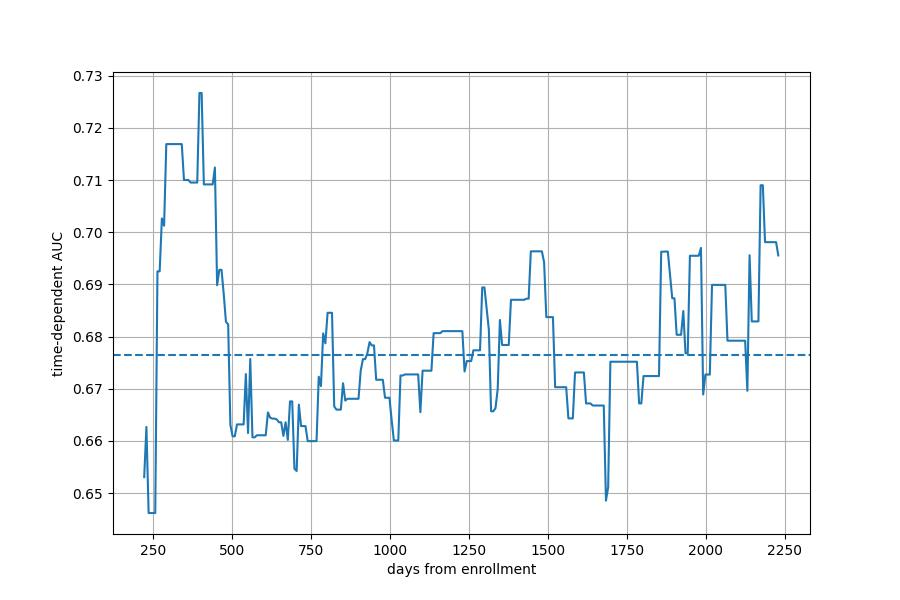
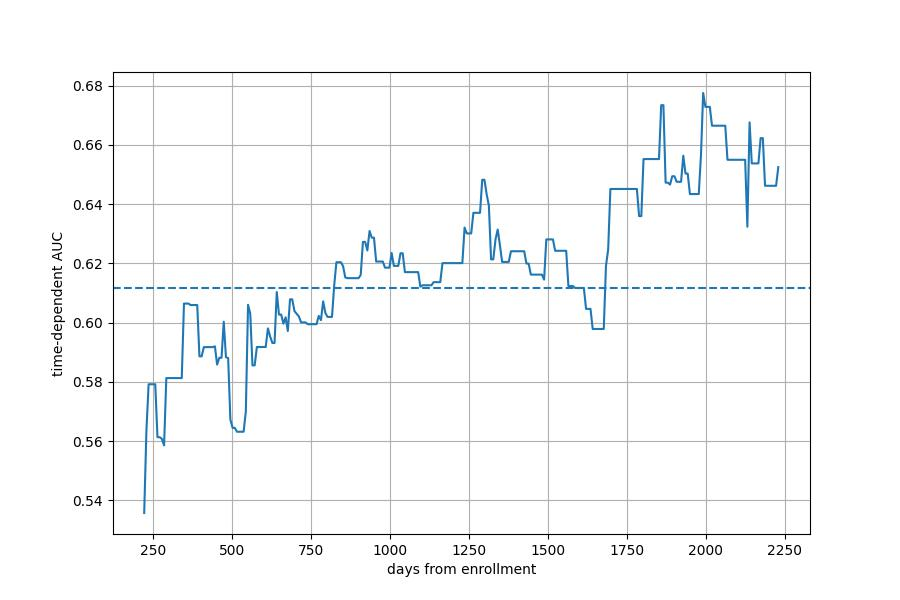
update signature prediction

diff --git a/analysis/a05_outcome_prediction/m_signature_prediction.py b/analysis/a05_outcome_prediction/m_signature_prediction.py
@@ -24,14 +24,14 @@ import torch
 import torchbnn as bnn
 
 from scipy.special import softmax
-from scipy.stats import zscore
+from scipy.stats import zscore, ttest_ind
 from torch_geometric.loader import DataLoader
 from tiatoolbox import logger
 from tiatoolbox.utils.misc import save_as_json
 
-from sklearn.model_selection import GridSearchCV, KFold, cross_val_score
+from sklearn.model_selection import GridSearchCV, KFold, cross_val_score, cross_val_predict
 from sklearn.feature_selection import SelectKBest, f_regression, VarianceThreshold
-from sklearn.pipeline import Pipeline
+from sklearn.pipeline import Pipeline, make_pipeline
 from sklearn.preprocessing import StandardScaler
 from sklearn.cluster import KMeans
 from sklearn.ensemble import RandomForestRegressor
@@ -41,6 +41,7 @@ from sklearn.svm import SVR
 from sklearn.metrics import r2_score
 from sklearn.metrics import mean_squared_error
 from sklearn.metrics import mean_absolute_error
+from sklearn.decomposition import PCA
 
 from utilities.m_utils import mkdir, load_json, create_pbar, rm_n_mkdir, reset_logging
 
@@ -281,7 +282,7 @@ def load_wsi_level_features(idx, wsi_feature_paths, pooling="mean"):
         feat_dict[k] = feat
     return {f"{idx}": feat_dict}
 
-def prepare_patient_outcome(outcome_dir, subject_ids, outcome=None, signature_ids=None):
+def prepare_patient_outcome(outcome_dir, subject_ids, outcome=None, signature_ids=None, pooling='mean'):
     if outcome == "GeneProgrames":
         outcome_file = f"{outcome_dir}/signatures/gene_programs/gene_programs.csv"
         df = pd.read_csv(outcome_file)
@@ -325,6 +326,14 @@ def prepare_patient_outcome(outcome_dir, subject_ids, outcome=None, signature_id
     else:
         raise NotImplementedError
 
+    if pooling == 'mean':
+        df_matched = df_matched.groupby("SubjectID", as_index=False).mean(numeric_only=True)
+    elif pooling == 'max':
+        df_matched = df_matched.groupby("SubjectID", as_index=False).max(numeric_only=True)
+    elif pooling == 'min':
+        df_matched = df_matched.groupby("SubjectID", as_index=False).min(numeric_only=True)
+    else:
+        raise NotImplementedError
     logging.info(f"Phenotype data strcuture: {df_matched.shape}")
 
     return df_matched
@@ -693,20 +702,22 @@ def signature_regression(
     n_selected_features=64,
     target_selection=True,
     target_selection_cv=5,
-    r2_threshold=0.05,
+    pvalue_threshold=0.05,
     use_graph_properties=False
     ):
     splits = joblib.load(split_path)
     predict_results = {}
+    target_has_selected = False
+    predictable_targets = []
     for split_idx, split in enumerate(splits):
         print(f"Performing cross-validation on fold {split_idx}...")
         data_tr, data_va, data_te = split["train"], split["valid"], split["test"]
         data_tr = data_tr + data_va
 
-        tr_y = np.array([p[1] for p in data_tr])
-        tr_y = pd.DataFrame({'label': tr_y})
-        te_y = np.array([p[1] for p in data_te])
-        te_y = pd.DataFrame({'label': te_y})
+        tr_y = [p[1] for p in data_tr]
+        tr_y = pd.DataFrame(tr_y)
+        te_y = [p[1] for p in data_te]
+        te_y = pd.DataFrame(te_y)
 
         # Concatenate multi-omics if required
         if omics == "radiopathomics":
@@ -822,16 +833,30 @@ def signature_regression(
         print("Selected testing omics:", te_X.shape)
         print(te_X.head())
 
+        # Normalization
+        scaler = StandardScaler()
+        tr_X = pd.DataFrame(scaler.fit_transform(tr_X), columns=tr_X.columns,index=tr_X.index)
+        te_X = pd.DataFrame(scaler.transform(te_X), columns=te_X.columns, index=te_X.index)
+
         # target selection
         if target_selection:
-            predictable_targets = []
-            for col in tr_y.columns:
-                model = Ridge(random_state=42)
-                r2 = cross_val_score(model, tr_X, tr_y[col], cv=target_selection_cv, scoring='r2').mean()
-                if r2 >= r2_threshold:
-                    predictable_targets.append(col)
-                else:
-                    print(f"Target '{col}' removed (R²={r2:.3f} < threshold={r2_threshold})")
+            if not target_has_selected:
+                print("Selecting targets...")
+                for col in tr_y.columns:
+                    y_true = tr_y[col].values
+                    model = make_pipeline(PCA(n_components=64), Ridge(random_state=42))
+                    y_pred = cross_val_predict(model, tr_X, y_true, cv=target_selection_cv)
+                    group_high = y_true[y_pred >= np.mean(y_pred)]
+                    group_low = y_true[y_pred < np.mean(y_pred)]
+                    stat, pval = ttest_ind(group_high, group_low, equal_var=False)
+                    if pval < pvalue_threshold:
+                        predictable_targets.append(col)
+                    else:
+                        print(f"Target '{col}' removed (p={pval:.3f})")
+
+                target_has_selected = True
+
+            print(f'Selected targets: {len(predictable_targets)}')
             tr_y = tr_y[predictable_targets].copy()
 
         # feature selection
@@ -847,7 +872,7 @@ def signature_regression(
             if n_selected_features is not None:
                 print("Selecting univariate feature...")
                 selector = SelectKBest(score_func=f_regression, k=n_selected_features)
-                _ = selector.fit_transform(tr_X, tr_y["label"])
+                _ = selector.fit_transform(tr_X, tr_y)
                 selected_mask = selector.get_support()
                 selected_names = tr_X.columns[selected_mask]
                 tr_X = tr_X[selected_names]
@@ -857,15 +882,15 @@ def signature_regression(
         # model selection
         print("Selecting regressor...")
         if model == "RF":
-            predictor = randomforest_regression(split_idx, tr_X, tr_y['label'], refit, n_jobs)
+            predictor = randomforest_regression(split_idx, tr_X, tr_y, refit, n_jobs)
         elif model == "Ridge":
-            predictor = linearregression(split_idx, tr_X, tr_y['label'], refit, n_jobs, model_type='ridge')
+            predictor = linearregression(split_idx, tr_X, tr_y, refit, n_jobs, model_type='ridge')
         elif model == "LASSO":
-            predictor = linearregression(split_idx, tr_X, tr_y['label'], refit, n_jobs, model_type='lasso')
+            predictor = linearregression(split_idx, tr_X, tr_y, refit, n_jobs, model_type='lasso')
         elif model == "ElasticNet":
-            predictor = linearregression(split_idx, tr_X, tr_y['label'], refit, n_jobs, model_type='elasticnet')
+            predictor = linearregression(split_idx, tr_X, tr_y, refit, n_jobs, model_type='elasticnet')
         elif model == "SVR":
-            predictor, _ = svr(split_idx, tr_X, tr_y['label'], refit, n_jobs)
+            predictor, _ = svr(split_idx, tr_X, tr_y, refit, n_jobs)
 
         # Perform prediction
         pred = predictor.predict(te_X)
@@ -1427,14 +1452,16 @@ if __name__ == "__main__":
     df_outcome = prepare_patient_outcome(
         outcome_dir=opt['SAVE_OUTCOME_dir'],
         subject_ids=list(omics_info['omics_paths'].keys()),
-        outcome=opt['OUTCOME']['VALUE']
+        outcome=opt['OUTCOME']['VALUE'],
+        signature_ids=opt['OUTCOME']['SIGNATURE_IDS'],
+        pooling=opt['OUTCOME']['POOLING']
     )
     subject_ids = df_outcome['SubjectID'].to_list()
     logger.info(f"Found {len(subject_ids)} subjects with phenotypes")
 
     omics_paths = [[k, omics_info['omics_paths'][k]] for k in subject_ids]
     
-    y = df_outcome.to_numpy(dtype=np.float32).tolist()
+    y = df_outcome.drop(columns=['SubjectID']).to_dict(orient='records')
 
     # split data set
     splits = generate_data_split(

diff --git a/analysis/a05_outcome_prediction/m_phenotype_prediction.py b/analysis/a05_outcome_prediction/m_phenotype_prediction.py
@@ -820,6 +820,11 @@ def phenotype_classification(
         print("Selected testing omics:", te_X.shape)
         print(te_X.head())
 
+        # Normalization
+        scaler = StandardScaler()
+        tr_X = pd.DataFrame(scaler.fit_transform(tr_X), columns=tr_X.columns,index=tr_X.index)
+        te_X = pd.DataFrame(scaler.transform(te_X), columns=te_X.columns, index=te_X.index)
+        
         # feature selection
         if feature_selection:
             print("Selecting features...")

diff --git a/analysis/a05_outcome_prediction/m_survival_analysis.py b/analysis/a05_outcome_prediction/m_survival_analysis.py
@@ -1107,6 +1107,11 @@ def survival(
         print("Selected testing omics:", te_X.shape)
         print(te_X.head())
 
+        # Normalization
+        scaler = StandardScaler()
+        tr_X = pd.DataFrame(scaler.fit_transform(tr_X), columns=tr_X.columns,index=tr_X.index)
+        te_X = pd.DataFrame(scaler.transform(te_X), columns=te_X.columns, index=te_X.index)
+
         # feature selection
         if feature_selection:
             print("Selecting features...")
